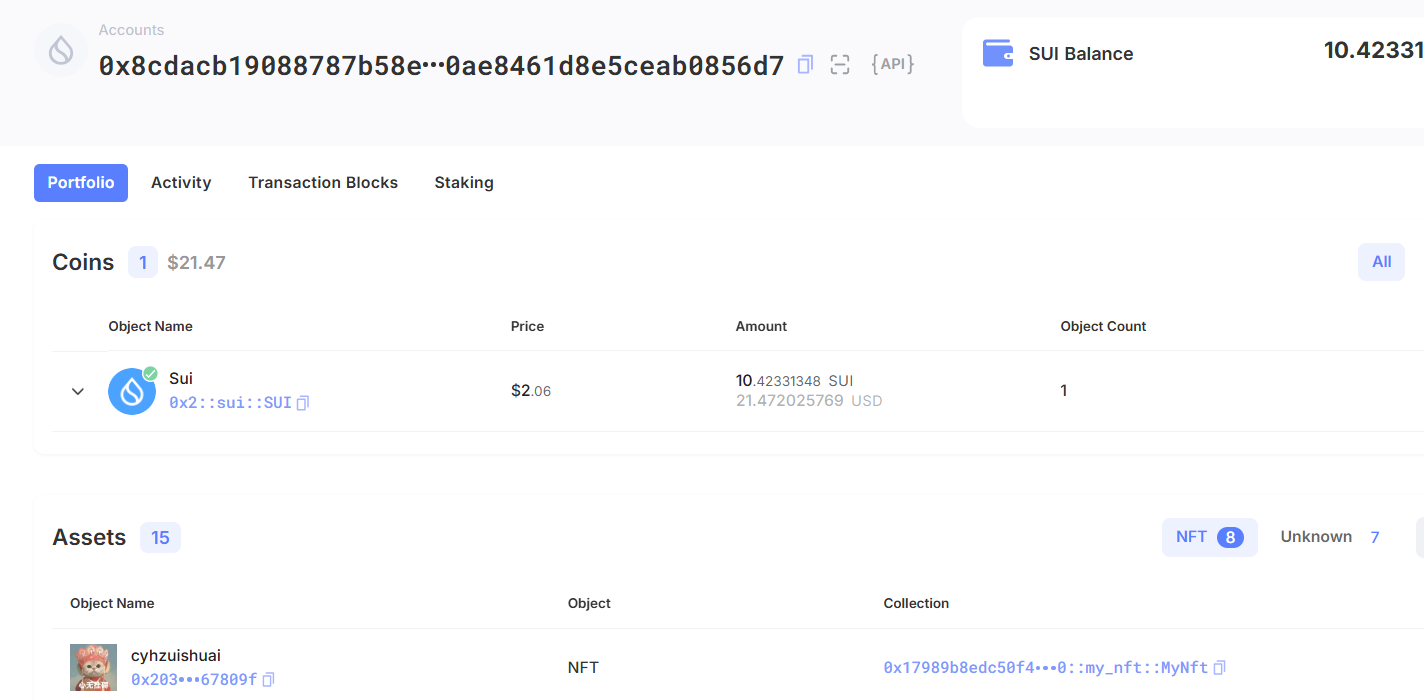
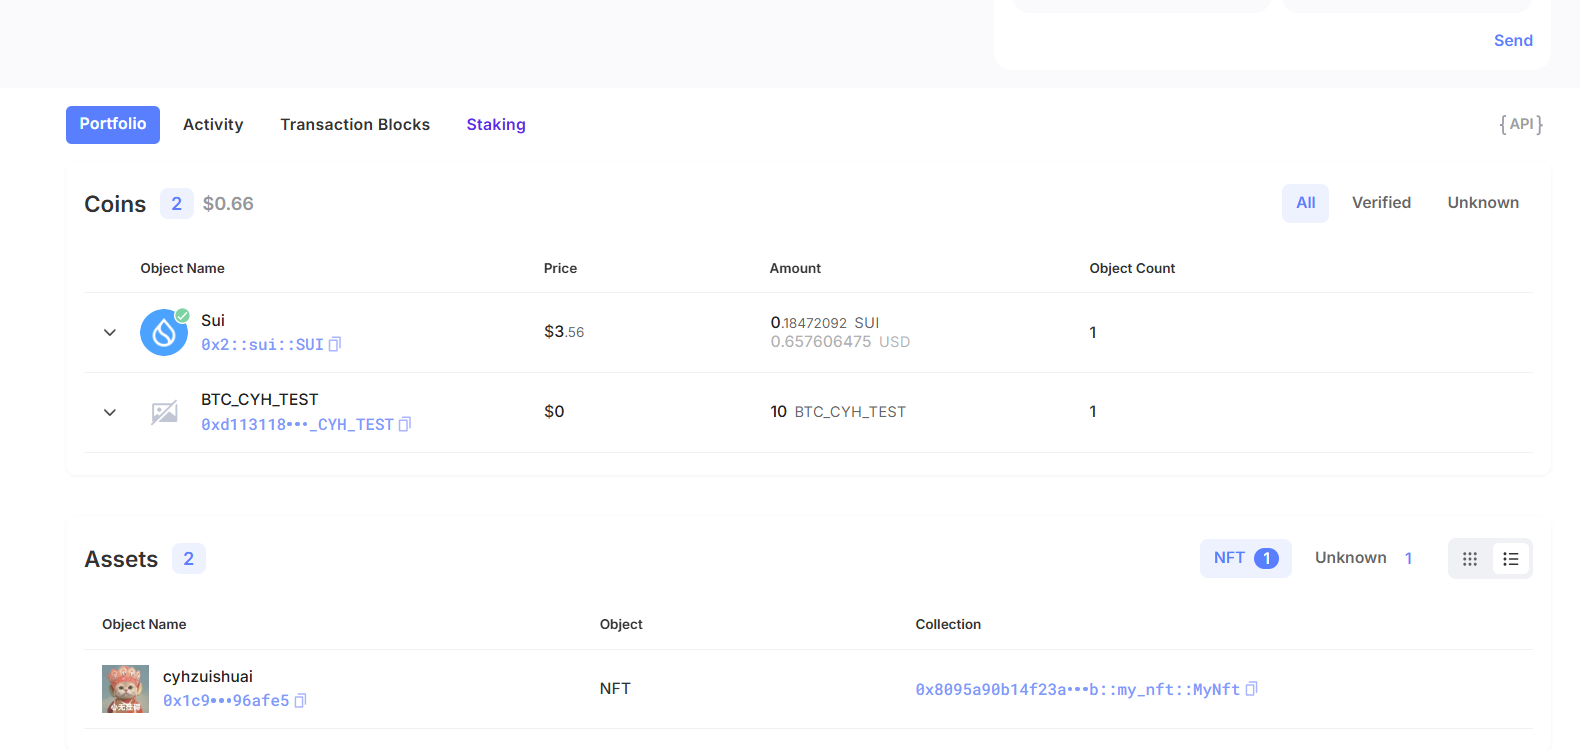
task1-3

diff --git a/mover/cyhzuishuai/readme.md b/mover/cyhzuishuai/readme.md
@@ -26,9 +26,9 @@
 - [] `Faucet Coin` address2 mint hash: FcyQM3Sa2cunDym89RUV5zALd6BU1rW2UZHyJSozoWY9
 
 ##   03 move NFT
-- [] nft package id : 0x91a34df61a86428bd1ac13b6b511f0f0dff6d74b2ae65452a31c9c66892749fb
-- [] nft object id : 0x5810f3d02968526febed957fb3c2e3b82381f20a66391a87d14bd4123a788a3a
-- [] 转账 nft  hash:  JCYyjF3turN6wMFcVQHvC5he197uoQrCuvG2fdDaSHXr
+- [] nft package id : 0x8095a90b14f23a43618ed863af87ac683ce8b604cc2db118312a0ec34478022b
+- [] nft object id(我自己的) : 0x1c9b0c3497c6303e2b63301a257859bfeed5bedd3b2782854aa994a2f496afe5
+- [] 转账 nft 到别人的地址hash(0x7b8e0864967427679b4e129f79dc332a885c6087ec9e187b53451a9006ee15f2):  ESo5bXKSvvmTchXYrjkSot8zDSxq2fuJFVuGeynXX42f
 - [] scan上的NFT截图:![Scan截图](./images/task3.png)
 
 ##   04 Move Game
